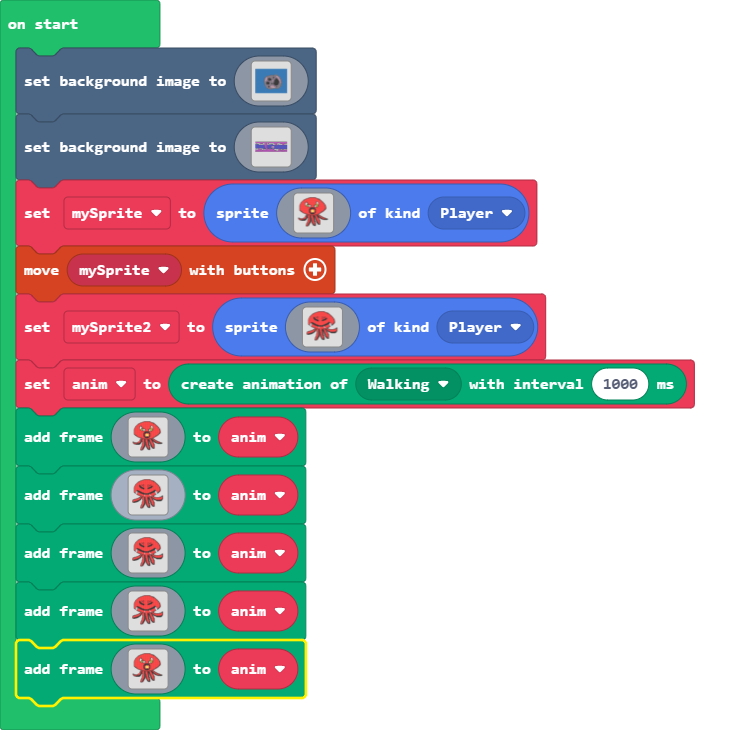
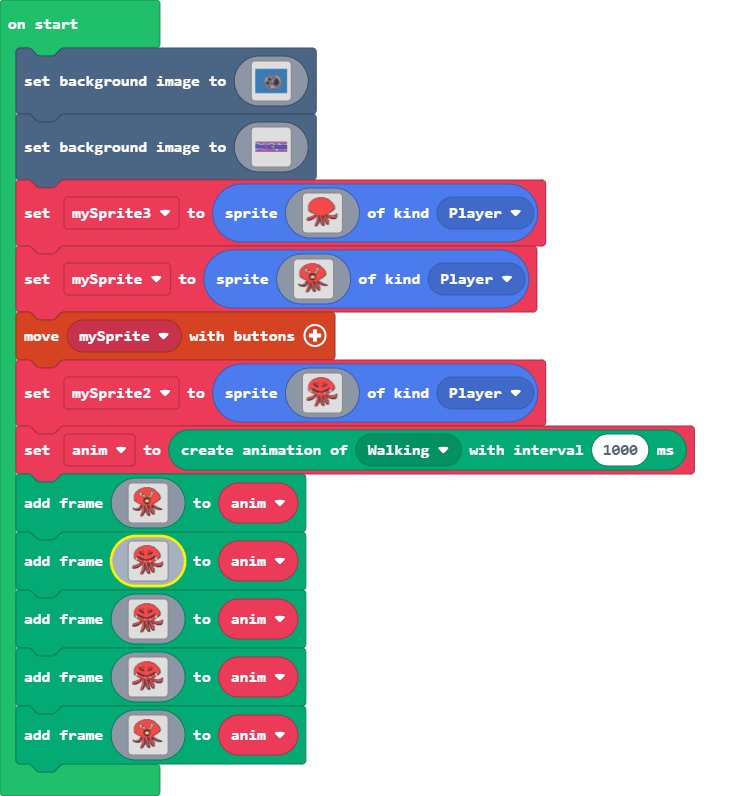
Update main.blocks, main.ts, images.g.jres, images.g.ts

Changed region(s): [[0.0, 0.0301, 0.9558, 0.9945]]

diff --git a/main.ts b/main.ts
@@ -250,6 +250,88 @@ scene.setBackgroundImage(img`
     ccccccccccccccccccccccccccccccccccccccccccccccccccccccfffffffffccccccccccccccccccccccccccccccccccccccffffffffffffffffffffffffffffffffffffffffffffffffffffffffffffccccccccccccccccccccccccccccccccccccccccccccccccccccccccccccccccccccccccffffffffffffccccccccccccccccccccccccccffffccccccccccccccccccccccccccccccccccccccccccccccccccccccccccccccccccccccccccccccccccccccccccccccccccccccccccccccccccccccccccccc
     ffffffffffffffffffffffffffffffffffffffffffffffffffffffcccccccccccccccccccccccccccccccccccccccccccccccccccccccccccccccccccccccccccccccccccccccccccccccccccccccccccffffffffffffffffffffffffffffffffffffffffffffffffffffffffffffffffffffffffccccccccccccccccccccccccccccccccffffffccccccccccccccccccccccccccccccccccccccccccccccccccccccccccccccccccccccccccccccccccccccccccccccccccccccccccccccccccccccccccccccccc
     `)
+let mySprite3 = sprites.create(img`
+    ................................................................................
+    ..............................fffffffffffffff...................................
+    ...........................fff222222222222222ff.................................
+    ........................fff22222222222222222222ff...............................
+    .....................fff2222222222222222222222222ffff...........................
+    ...................ff2222222222222222222222222222222fff.........................
+    .................ff22222222222222222222222222222222222ff........................
+    ...............fff2222222222222222222222222222222222222ff.......................
+    ...............f22222222222222222222222222222222222222222ff.....................
+    .............ff22222222222222222222222222222222222222222222f....................
+    ............f2222222222222222222222222222222222222222222222f....................
+    ...........f222222222222222222222222222222222222222222222222ff..................
+    ..........f222222222222222222222222222222222222222222222222222f.................
+    .........f2222222222222222222222222222222222222222222222222222ff................
+    ........ff222222222222222222222222222222222222222222222222222222f...............
+    ........f22222222222222222222222222222222222222222222222222222222f..............
+    .......f222222222222222222222222222222222222222222222222222222222ff.............
+    .......f2222222222222222222222222222222222222222222222222222222222f.............
+    ......f222222222222222222222222222222222222222222222222222222222222f............
+    ......f2222222222222222222222222222222222222222222222222222222222222f...........
+    .....f22222222222222222222222222222222222222222222222222222222222222ff..........
+    .....f222222222222222222222222222222222222222222222222222222222222222f..........
+    .....f222222222222222222222222222222222222222222222222222222222222222f..........
+    .....f222222222222222222222222222222222222222222222222222222222222222f..........
+    .....f2222222222222222222222222222222222222222222222222222222222222222f.........
+    .....f2222222222222222222222222222222222222222222222222222222222222222f.........
+    .....f2222222222222222222222222222222222222222222222222222222222222222f.........
+    .....f2222222222222222222222222222222222222222222222222222222222222222f.........
+    .....f2222222222222222222222222222222222222222222222222222222222222222f.........
+    .....f222222222222222222222222222222222222222222222222222222222222222ff.........
+    .....f22222222222222222222222222222222222222222222222222222222222222ff..........
+    .....f2222222222222222222222222222222222222222222222222222222222222ff...........
+    .....f222222222222222222222222222222222222222222222222222222222222ff............
+    .....ff2222222222222222222222222222222222222222222222222222222222ff.............
+    ......ff22222222222222222222222222222222222222222222222222222222ff..............
+    ........ff222222222222222222222222222222222222222222222222222ffff...............
+    ........ffff222222222222222222222222222222222222222222222222ff..................
+    .........fff22222222222222222222222222222222222222222222222ff...................
+    ...........ff222222222222222222222222222222222222222222222ff....................
+    .............ff222222222222222222222222222222222222222222f......................
+    ...............fff2222222222222222222222222222222222222ff.......................
+    ..................ffff2222222222222222222222222222222ff....................f....
+    ......................f222222222222222222222222222222f.....................ff...
+    .....................ff222222222222222222222222222222f....................fff...
+    ....................ff222222222222222222222222ffff222ff.................fff2f...
+    ...................ff222ff22222fff22222ff222222ffff2222fff..........fffff222f...
+    .................fff222ff.f2222ff222222fff222222f.f2222222ffffffffff22222222f...
+    ................ff2222fff.f2222fff22222ffff22222fffff22222222222222222222222f...
+    ............ffff222222ff..f2222fff22222ffffff2222f.fff2222222222222222222222f...
+    ...........ff22222222ff...f2222fff22222ffffff22222f.ffff2222222222222222222ff...
+    ......fffff222222222fff...f2222fff22222ffffff22222ff..ffff22222222222222222f....
+    ...ffff222222222222fff....f2222fff222222ff.fff22222ff..fffff222222222222ffff....
+    ..ff2222222222222ffff.....ff222ffff22222ff..ff22222ff....ffffffffffffffffff.....
+    ..f222222222222ffff........f222f.ff22222ff..fff22222f.......ffffffffffffff......
+    .ff222222222ffffff........f2222ff.ff2222fff.fff222222f.......ffffffffffff.......
+    .f2222222fffffff..........f2222ff.ff22222ff..ff222222f..........................
+    .f222ffffffffff...........f2222ff.ff22222ff..fff222222f.........................
+    .ff2ffffffff.............ff2222ff.ff22222ff...ff222222f.........................
+    ..ffffff.................f22222ff.ff22222ff...fff22222ff........................
+    .........................f22222ff.fff2222ff...fff222222f........................
+    .........................f22222ff.fff2222fff..fff222222f........................
+    .........................f2222fff..ff22222ff...ff222222f........................
+    ........................f22222fff..ff22222ff...fff22222f........................
+    ........................f22222ff...ff222222f...ffff2222f........................
+    .......................ff2222fff...fff22222f....fff2222f........................
+    .......................f2222fff.....fff2222ff....fff222f........................
+    ......................ff2222ff.......ff2222ff.....fff22f........................
+    ......................f2222fff.......fff222ff.....ffff2f........................
+    ......................f2222ff.........ff222ff.......ffff........................
+    ......................f222fff.........fff22ff...................................
+    .....................ff2222f...........ffffff...................................
+    .....................f2222ff.............ffff...................................
+    .....................fffff......................................................
+    ................................................................................
+    ................................................................................
+    ................................................................................
+    ................................................................................
+    ................................................................................
+    ................................................................................
+    ................................................................................
+    `, SpriteKind.Player)
 let mySprite = sprites.create(assets.image`ljmn`, SpriteKind.Player)
 controller.moveSprite(mySprite)
 let mySprite2 = sprites.create(img`
@@ -294,16 +376,16 @@ let mySprite2 = sprites.create(img`
     ...........ff222222222222222ffffffffffffffff92222222222222ff....................
     .............ff222222222222222299222222222229222222222222f......................
     ...............fff2222222222222922222222222299222222222ff.......................
-    ..................ffff2f22222229222222222222299222222ff....................f....
-    ......................f2222222292222222222222299922fff.....................ff...
-    .....................ff22ff2229922222222222222229f222f....................fff...
-    ....................ff222f2fffff22222222f222ffffff222ff.................fff2f...
-    ...................ff222ff22222fff22222ffffff22ffff2222fff..........fffff222f...
-    .................fff222ff.f2222ff222222fff222222f.f2222222ffffffffff22222222f...
-    ................ff2222fff.f2222fff22222ffff22222fffff22222222222222222222222f...
-    ............ffff222222ff..f2222fff22222ffffff2222f.fff2222222222222222222222f...
-    ...........ff22222222ff...f2222fff22222ffffff22222f.ffff2222222222222222222ff...
-    ......fffff222222222fff...f2222fff22222ffffff22222ff..ffff22222222222222222f....
+    ..................ffff2222222229222222222222299222222ff....................f....
+    ......................f222222229222222222222229992222f.....................ff...
+    .....................ff22f222299222222222222222292222f....................fff...
+    ....................ff222f22222f222222222222222fff222ff.................fff2f...
+    ...................ff222ff22222ff22222222222222ffff2222fff..........fffff222f...
+    .................fff222ff.f2222ff2222222ff222222f.f2222222ffffffffff22222222f...
+    ................ff2222fff.f2222fff222222fff22222fffff22222222222222222222222f...
+    ............ffff222222ff..f2222fff222222fffff2222f.fff2222222222222222222222f...
+    ...........ff22222222ff...f2222fff222222fffff22222f.ffff2222222222222222222ff...
+    ......fffff222222222fff...f2222fff222222fffff22222ff..ffff22222222222222222f....
     ...ffff222222222222fff....f2222fff222222ff.fff22222ff..fffff222222222222ffff....
     ..ff2222222222222ffff.....ff222ffff22222ff..ff22222ff....ffffffffffffffffff.....
     ..f222222222222ffff........f222f.ff22222ff..fff22222f.......ffffffffffffff......

diff --git a/images.g.ts b/images.g.ts
@@ -66,13 +66,13 @@ namespace myImages {
 .............ff222222222222222fff2ff2ffff42ff222222222222f......................
 ...............fff2222222222222fffffffffffff22222222222ff.......................
 ..................ffff2222222222fffffffffff2222222222ff.........................
-......................fff22222222fffffffff222222222ff...........................
-......................f22ff2222222222222222222222ff2f...........................
-.....................ff22f2fffff222222222222fffff222ff..........................
-....................ff22ff22222ffffffffffffff22ffff222f.........................
-....................f222fff2222ff222222fff222222ffff222ff.......................
-....................f22ff.f2222fff22222ffff22222fffff222ff......................
-...................ff2fff.f2222fff22222ffffff2222fffff2222ff....................
+......................f2222222222fffffffff222222222ff...........................
+......................f22222222222222222222222222222f...........................
+.....................ff22f22222222222222222222222222ff..........................
+....................ff22ff222222f222222fff222222222222f.........................
+....................f222fff22222f222222fff222222ffff222ff.......................
+....................f22ff.f22222f222222ffff22222fffff222ff......................
+...................ff2fff.f22222f222222ffffff2222fffff2222ff....................
 ...................f22fff.f2222fff22222ffffff22222fffff2222fff..................
 ..................2222fff.f2222fff22222ffffff22222ffffff22222fff................
 .................22222fff.f2222fff222222ff.fff22222f..ffff22222fff..............
